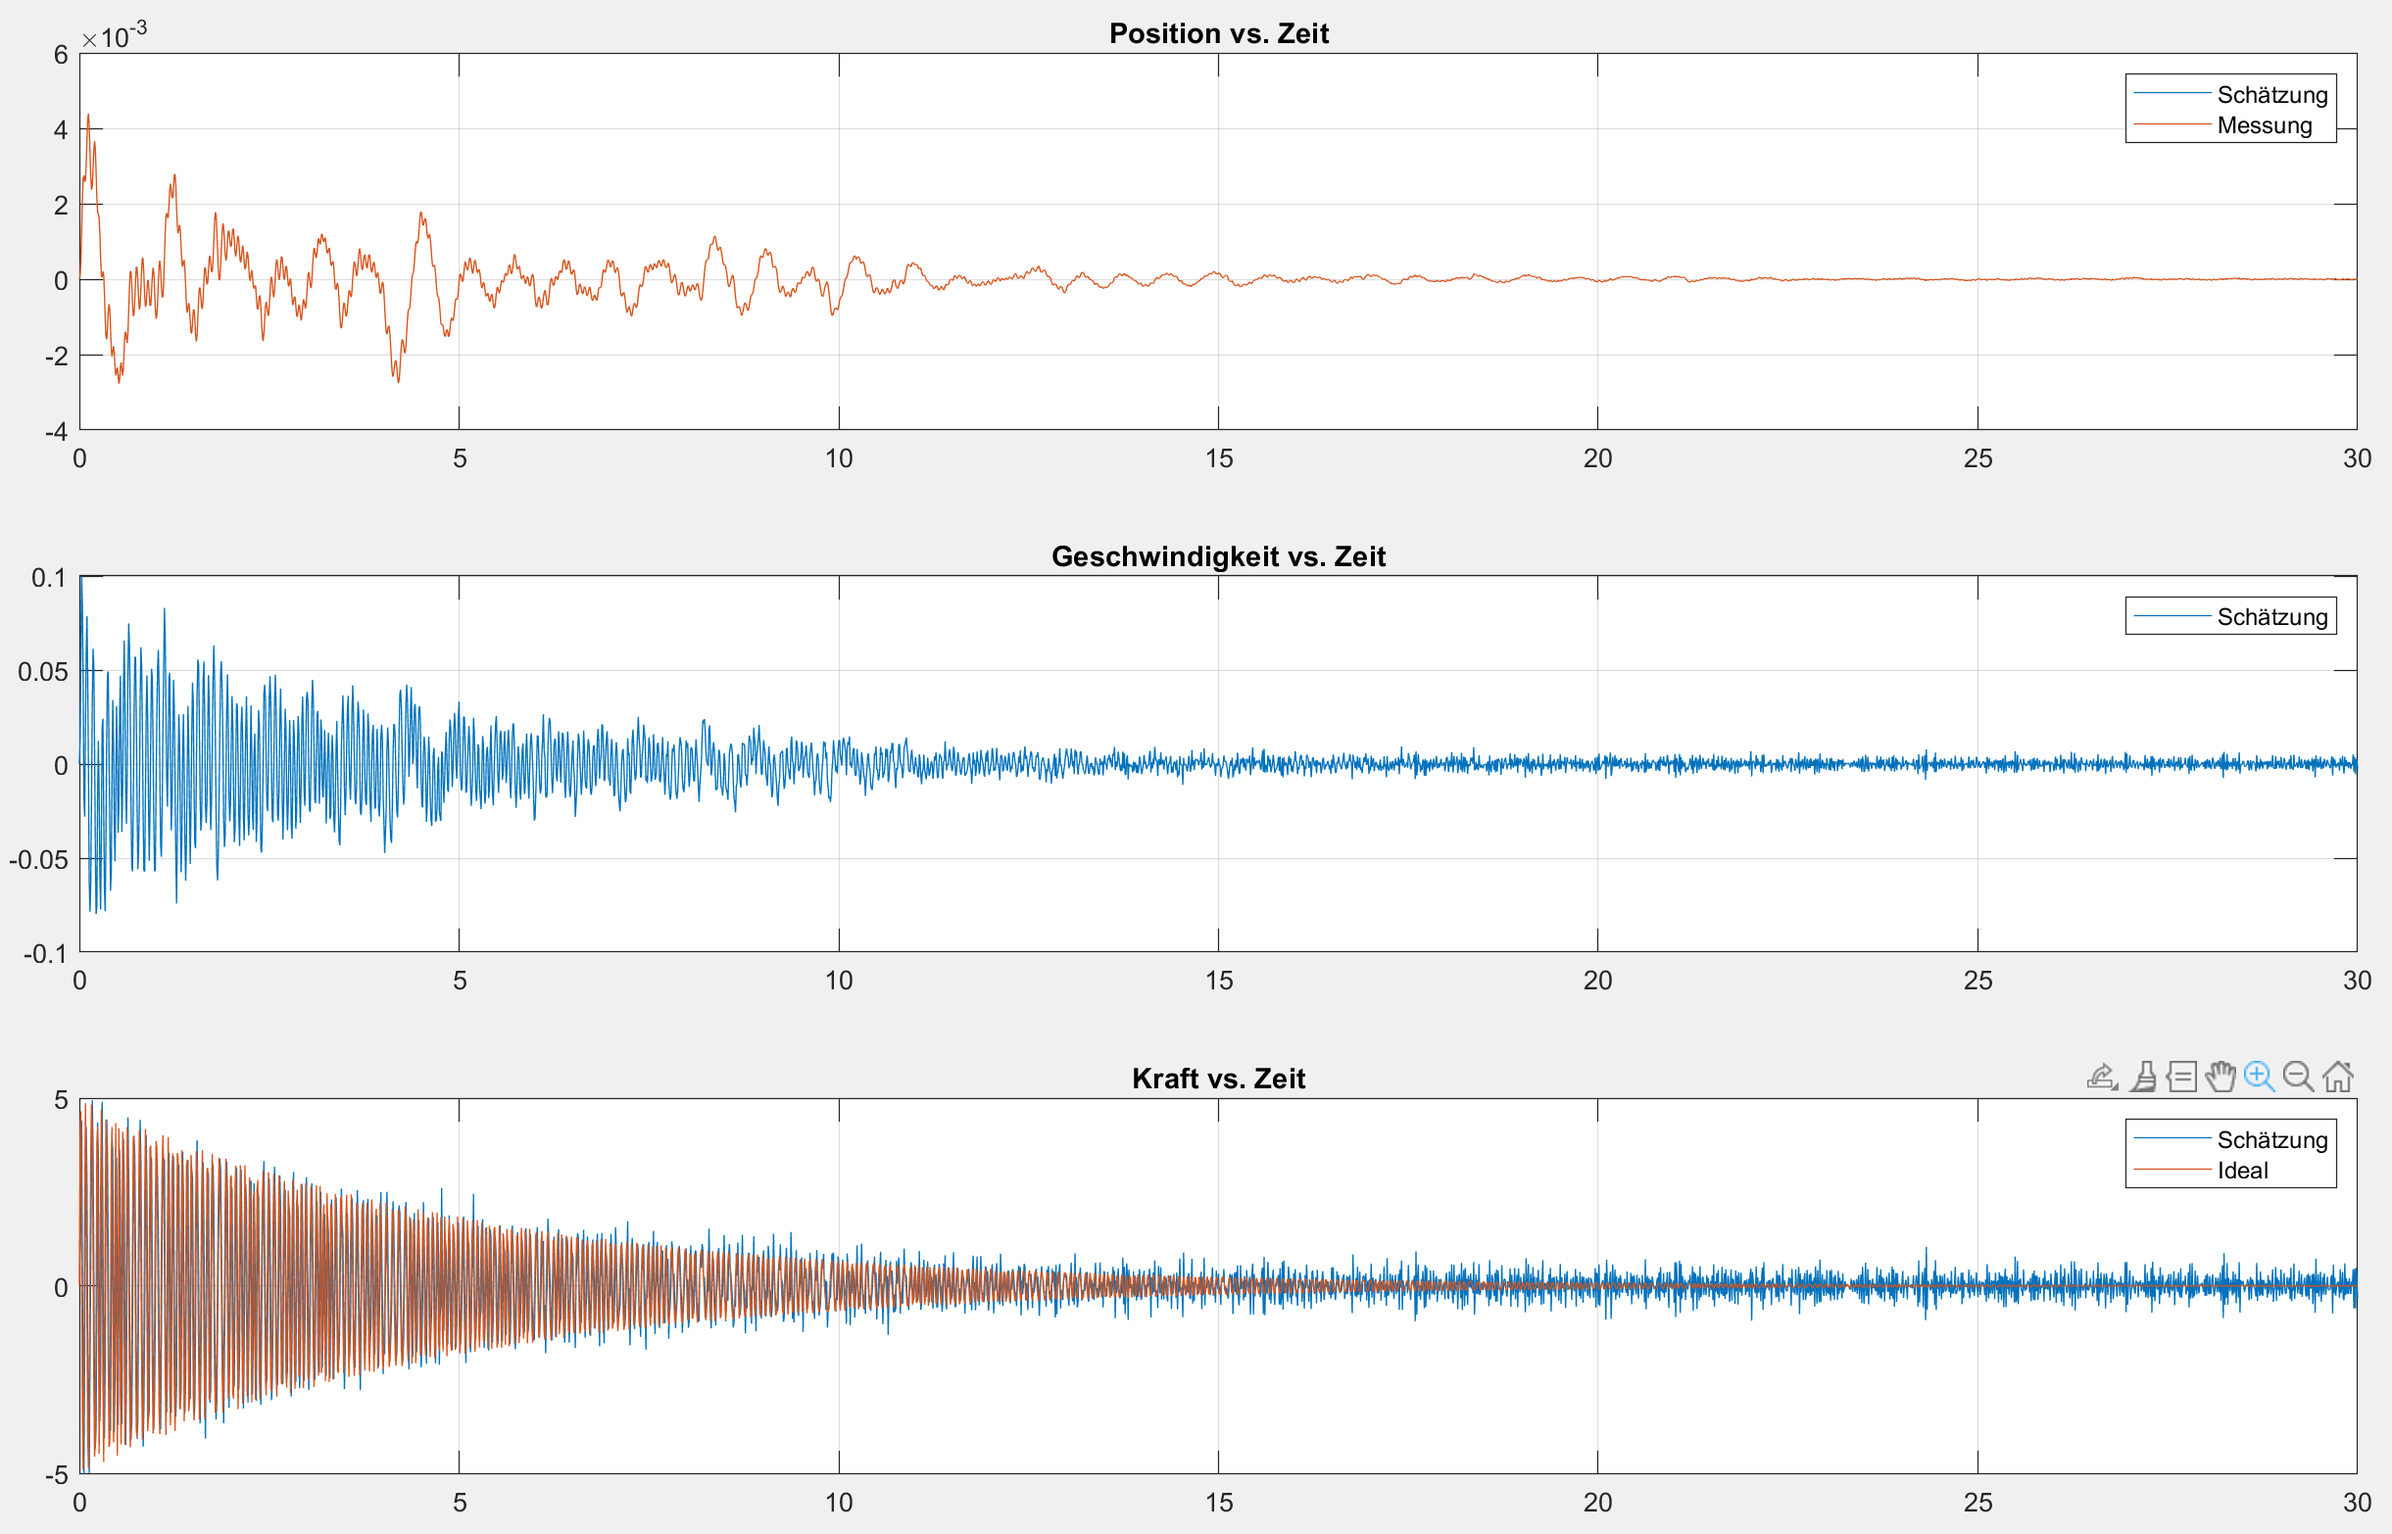
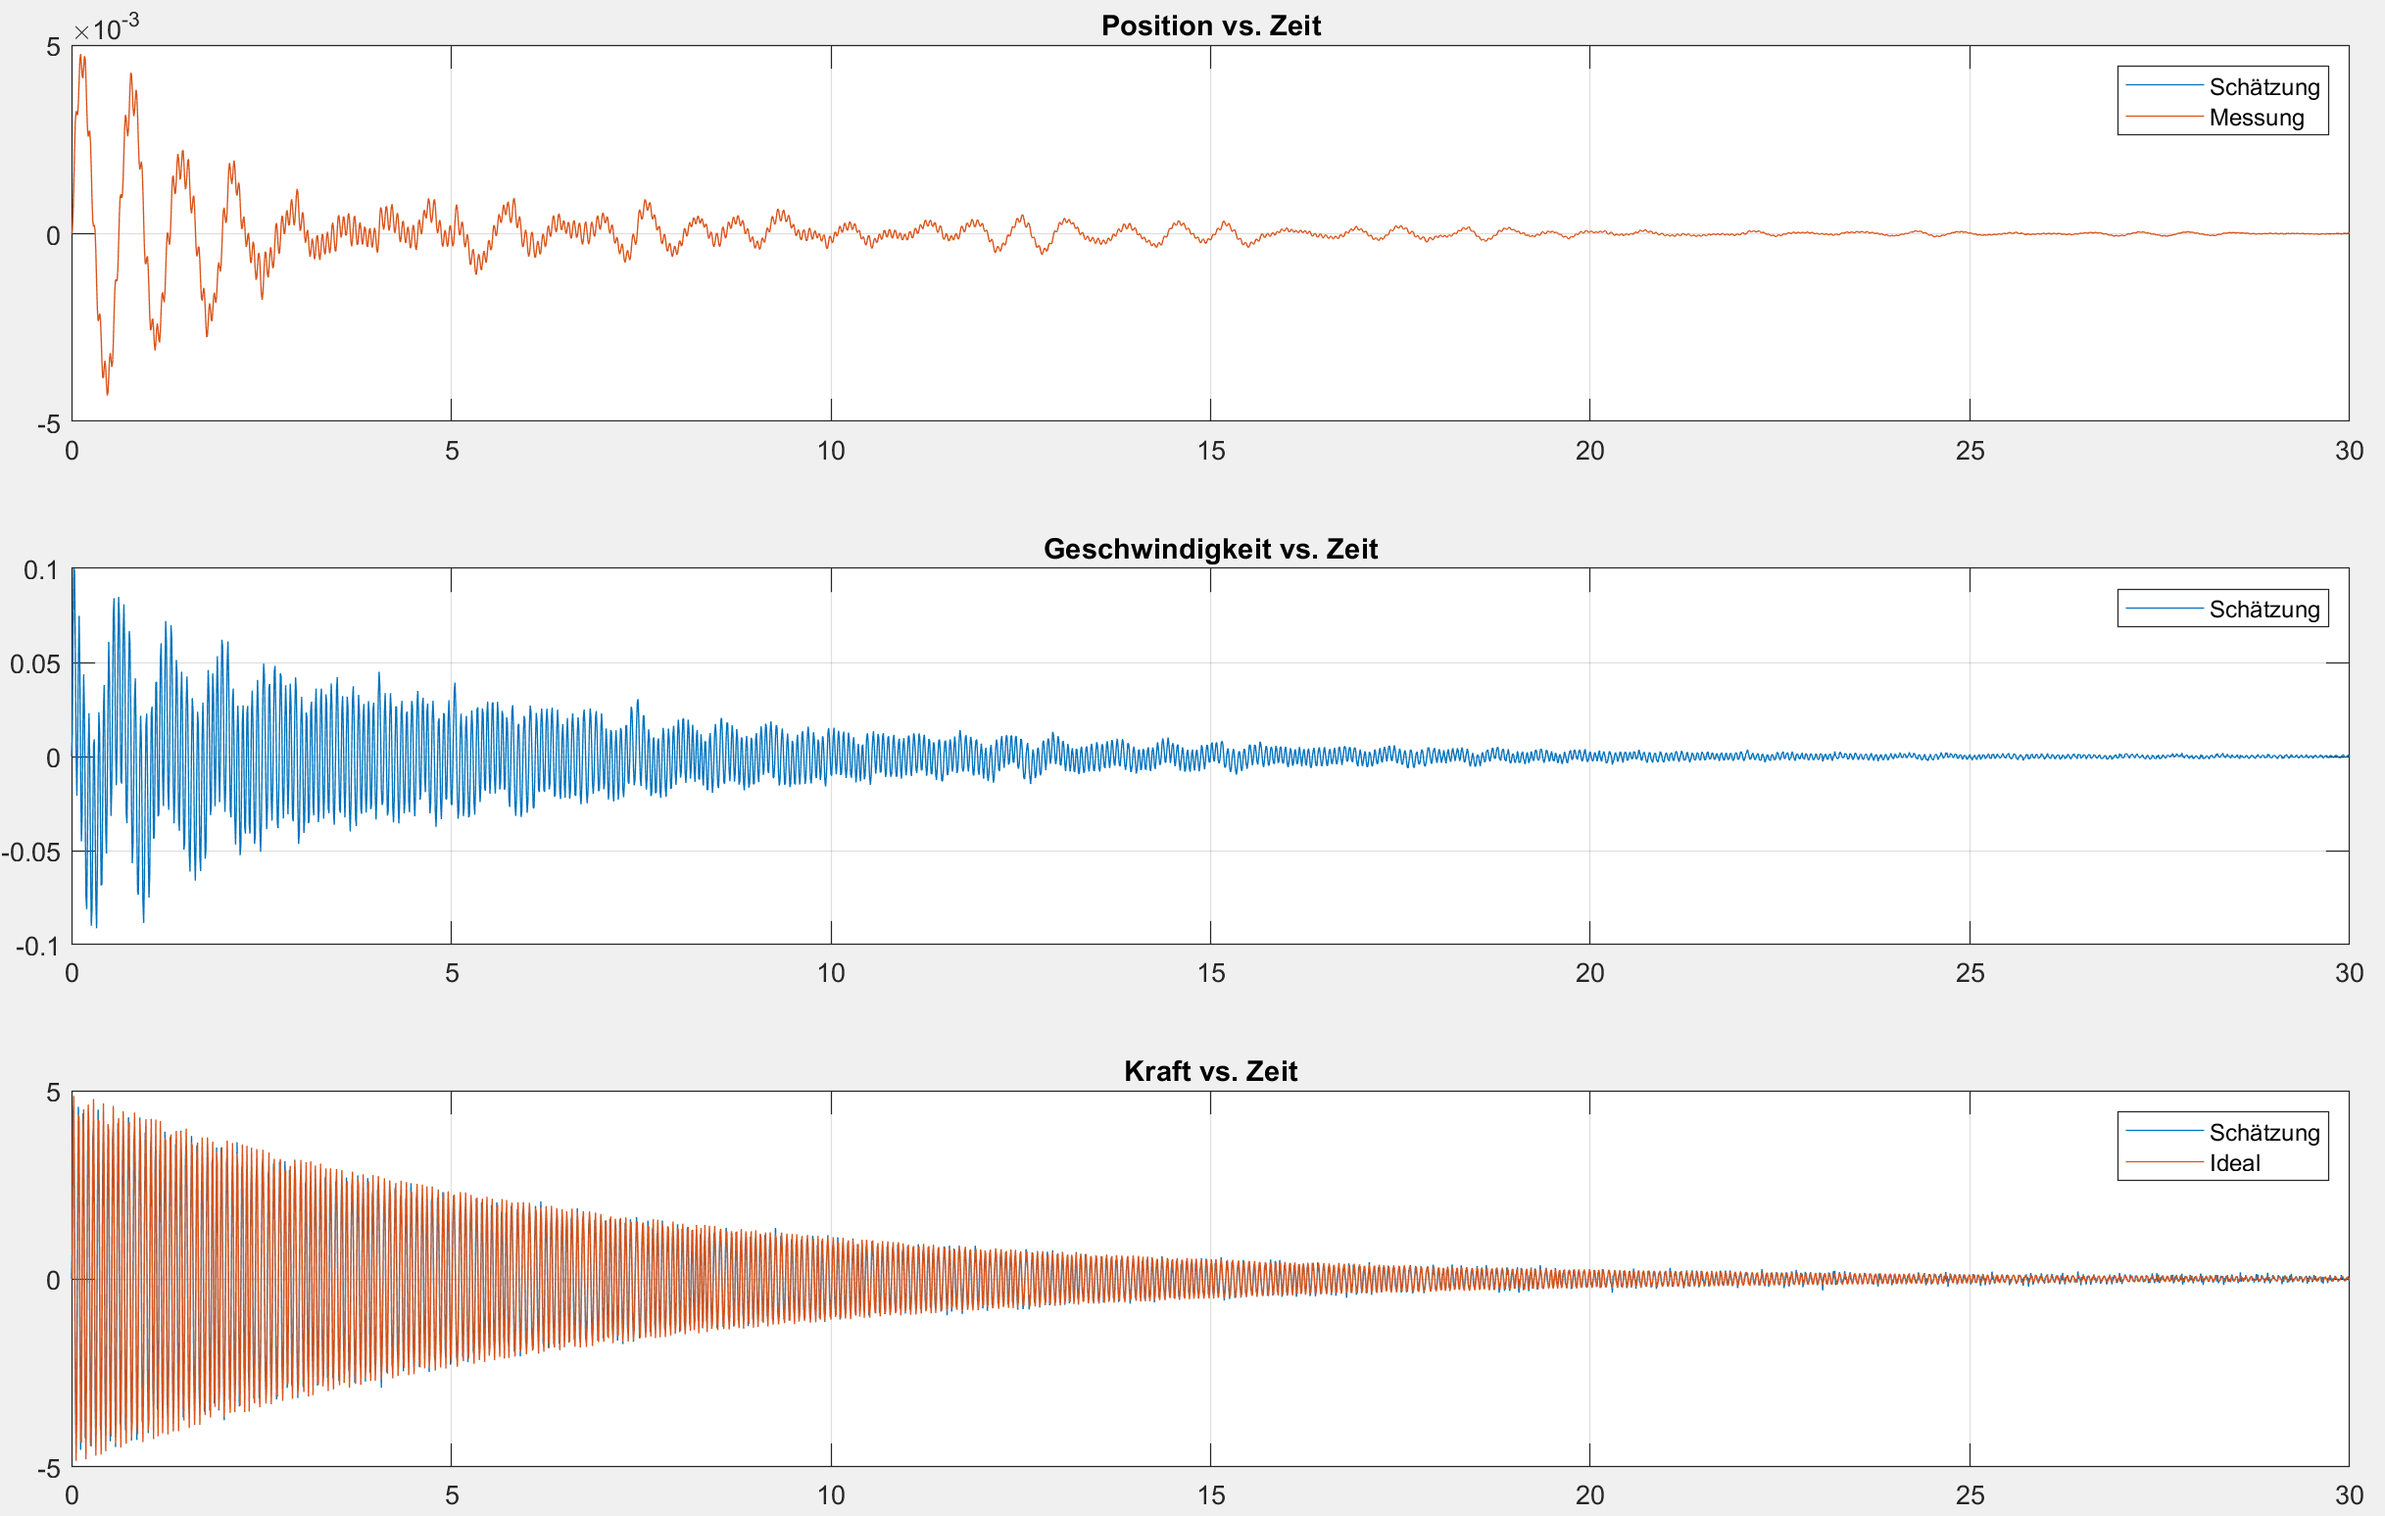
Update Grafiken + Ergänzungen Text

diff --git a/buch/papers/erdbeben/Teil_Fabio.tex b/buch/papers/erdbeben/Teil_Fabio.tex
@@ -71,9 +71,9 @@ $\lambda$ ist die Bodendämpfung, für die wir $0.2$ wählen.
 Sie ist dafür verantwortlich, dass unser Erdbeben abklingen wird und kreiert bei der gedämpften Schwingung die typische Hüllkurve der Amplitude.
 Wir nehmen an, dass $\lambda$ ein Materialparameter von geologischen Böden ist.
 
-\subsection{Ab hier bin ich noch dran/ Versuch im Standardfall}
+\subsection{Versuch im Standardfall}
 Im nächsten Schritt müssen wir sinnvolle Systemparameter für unseren Seismographen definieren.
-Eine kurze Recherche zeigt, dass die Masse ein Gewicht von ca. \SI{100}{\gram} hat.
+Eine kurze Recherche zeigt, dass die Masse ein Gewicht von ca.\ \SI{100}{\gram} hat.
 Zur Federkonstante D und Dämpfung k konnten wir leider keine brauchbaren Grössen finden und treffen die Annahme, dass $D = 1$ und $k = 0.01$.
 Für die Masse definieren wir $m = 0.01$.
 
@@ -89,8 +89,8 @@ Wir nehmen an, dass
 		0 & 0& {\sigma_f }^2\\
 	\end{array}\right)= \left(
 	\begin{array}{ccc}
-		{0.00001 }^2& 0& 0 \\
-		0 & {0.00001 }^2& 0\\
+		{0.00001}^2& 0& 0 \\
+		0 & {0.00001}^2& 0\\
 		0 & 0& {1 }^2\\
 	\end{array}\right)
 \end{equation}
@@ -110,20 +110,21 @@ Wie wir in Abbildung~\ref{erdbeben:fig:standard-alles} im Positions-Zeit-Diagram
 Leiten wir die Position einmal ab, erhalten wir die Geschwindigkeit.
 Die zweite Ableitung ergibt uns die Kraft, welche für unsere Aufgabenstellung relevant ist.
 Sehr gut ersichtlich ist die Hüllkurve der Amplitude, wie wir sie bei einer gedämpften Schwingung erwarten.
+
 Die blaue Kurve ist die geschätzte äussere Kraft des Kalman-Filters.
 Erst wenn wir näher zoomen, erkennen wir in der Abbildung~\ref{erdbeben:fig:standard-zoom} wie nahe die Schätzung an der idealen Schwingung liegt.
 
 \begin{figure}
 	\begin{center}
 		\includegraphics[width=\linewidth,keepaspectratio]{papers/erdbeben/Standard_alles.PNG}
-		\caption{Das Position-Zeit-Diagramm zeigt uns die typische Aufzeichnung eines Seismographen während eines Erdbebens. Um die Geschwindigkeit zu erhalten müssen wir die Positionsveränderung einmal ableiten. Ein weiteres Ableiten erzeugt uns die Beschleunigung resp. die Kraft.}
+		\caption{Das Position-Zeit-Diagramm zeigt uns die typische Aufzeichnung eines Seismographen während eines Erdbebens. Um die Geschwindigkeit zu erhalten müssen wir die Position einmal ableiten. Ein weiteres Ableiten erzeugt uns die Beschleunigung, respektive die Kraft.}
     \label{erdbeben:fig:standard-alles}
 	\end{center}
 \end{figure}
 
 \begin{figure}
 	\begin{center}
-		\includegraphics[width=\linewidth,keepaspectratio]{papers/erdbeben/Erdbeben_Standardfall_Zoom.PNG}
+		\includegraphics[width=\linewidth,keepaspectratio]{papers/erdbeben/Standard_Zoom.PNG}
 		\caption{Erst das Vergrössern an die Datenpunkte zeigt uns auf, wie gut die Schätzung des Kalman-Filters funktioniert.}
     \label{erdbeben:fig:standard-zoom}
 	\end{center}
@@ -149,7 +150,7 @@ Nebst dem bemerken wir eine grössere Auslenkung der Position, die wir auf die h
 \begin{figure}
 	\begin{center}
 		\includegraphics[width=\linewidth,keepaspectratio]{papers/erdbeben/Systemparameter_geaendert_2.PNG}
-		\caption{Im Geschwindigkeits-Diagramm erkennen wir in den ersten $6-7$ Sekunden, wie die Erdbebenschwingung die Masse beeinflusst. Gleichzeitig und vorallem im gesamten Zeitverlauf, pendelt sich die Masse in die Eigenschwingung ein.}
+		\caption{Im Geschwindigkeits-Diagramm erkennen wir, dass sich im Vergleich zum Standardfall, die Auslenkung und Frequenz vergrössert hat. Dies wird mit der Erhöhung der Masse und somit der Trägheit begründet. Auch stellen wir fest, dass die Positionsmessung überwiegend die Eigenfrequenz misst.}
     \label{erdbeben:fig:systemparameter-geaendert}
 	\end{center}
 \end{figure}
@@ -157,27 +158,47 @@ Nebst dem bemerken wir eine grössere Auslenkung der Position, die wir auf die h
 
 \subsection{Verstärkung des Prozessrauschens}
 Falls wir unseren Seismographen in der Nähe einer grösseren Stadt aufstellen, so müssen wir aufgrund der Vibrationen mit einem stärkeren Prozessrauschen rechnen.
-Dieses Rauschen beeinflusst die Position und Geschwindigkeit in der Zustands-Matrix $Q$.
-Aus diesem Grund erhöhen wir die Standardabweichungen in der Matrix $Q$ um den Faktor $1'000$.
-Die Auswertung in Abbildung~\ref{erdbeben:fig:prozessrauschen-geaendert} zeigt auf, dass die Kalman-Schätzung der Kraft nur gering an den Messwerten anpasst.
+Dieses Rauschen beeinflusst die Varianzen der Position und Geschwindigkeit in der Matrix $Q$.
+Aus diesem Grund erhöhen wir die Standardabweichungen in der Matrix $Q$ um den Faktor $100$.
+Die Auswertung in Abbildung~\ref{erdbeben:fig:prozessrauschen-geaendert} zeigt auf, dass das Kalman-Filter die Schätzung der Kraft nur gering an den Messwerten anpasst.
 
 \begin{figure}
 	\begin{center}
 		\includegraphics[width=\linewidth,keepaspectratio]{papers/erdbeben/Prozessrauschen_geaendert.PNG}
-		\caption{}
+		\caption{Mit dem Erhöhen des Prozessrauschens gehen wir von einer grösseren Unsicherheit der Systemmatrix aus. Aus diesem Grund folgt das Filter vor allem den Messwerten, was sichtbare Folgen für die Schätzkurve im Kraft-Zeit-Diagramm hat. Hier möchte das Filter auch den Messwerten folgen. Da wir aber für die Kraft keine Messwerte aufzeichnen, erhalten wir eine sehr schwache Kurve}
     \label{erdbeben:fig:prozessrauschen-geaendert}
 	\end{center}
 \end{figure}
 
+\begin{figure}
+	\begin{center}
+		\includegraphics[width=\linewidth,keepaspectratio]{papers/erdbeben/Prozessrauschen_geaendert_zoom.PNG}
+		\caption{Die Position kann immernoch präzise geschätzt werden und die Ableitung zur Geschwindigkeit ergibt gute Resultate. Jedoch ist die Schätzkurve der Kraft sehr weit von der idealen Kurve entfernt und nicht nutzbar.}
+		\label{erdbeben:fig:prozessrauschen-geaendert-zoom}
+	\end{center}
+\end{figure}
+
 \subsection{Verstärkung des Messrauschens}
-Als letztes verstärken wir das Messrauschen um den Faktor 100 und belassen wieder den Rest wie im Standardfall.
-Diese Anpassung bewirkt bei der Position und Geschwindigkeit grosse Abweichungen zwischen der Messgrösse und des Schätzwertes.
-Im ganzen ist der Output sehr ungenau und somit nicht mehr brauchbar.
+Als letztes verstärken wir das Messrauschen um den Faktor $100$ und belassen wieder den Rest wie im Standardfall.
+Wie man eigentlich schon erwarten kann, zeigt uns die Abbildung~\ref{erdbeben:fig:messrauschen-geaendert}, dass das Signal des Messsensors vom Messrauschen gestört wird.
+Weil die Messung somit ungenau wird, kann das Kalman-Filter nicht mehr genau arbeiten und produziert einen ungenauen Output.
 
 \begin{figure}
 	\begin{center}
 		\includegraphics[width=\linewidth,keepaspectratio]{papers/erdbeben/Messrauschen_geaendert.PNG}
-		\caption{Das verstärkte Messrauschen dominiert über der Erdbebenschwingung. Die Aufzeichnung wird unbrauchbar und die Schätzung zu ungenau.}
+		\caption{Im Kraft-Zeit-Diagramm erhalten wir nur bis ca. $t = 10$ gute Schätzwerte. Von $t = 10$ bis $t = 30$ wirkt das Messrauschen zu stark und erhalten keine brauchbaren Werte mehr}
+	 \label{erdbeben:fig:messrauschen-geaendert}
 	\end{center}
 \end{figure}
+
+\begin{figure}
+	\begin{center}
+		\includegraphics[width=\linewidth,keepaspectratio]{papers/erdbeben/Messrauschen_geaendert_zoom.PNG}
+		\caption{Im Position-Zeit-Diagramm erhielten wir bis jetzt immer genaue Schätzungen. Mit einem starken Messrauschen fällt es nun dem Filter schwerer, präzise Werte zu generieren. Die Nahaufnahme im Kraft-Zeit-Diagramm bestätigt uns aber, dass die Messfehler zu gross sind, um ein klares Bild über die äussere Kraft zu erhalten.}
+		\label{erdbeben:fig:messrauschen-geaendert_zoom}
+	\end{center}
+\end{figure}
+
+\subsection{Fazit}
+
 
